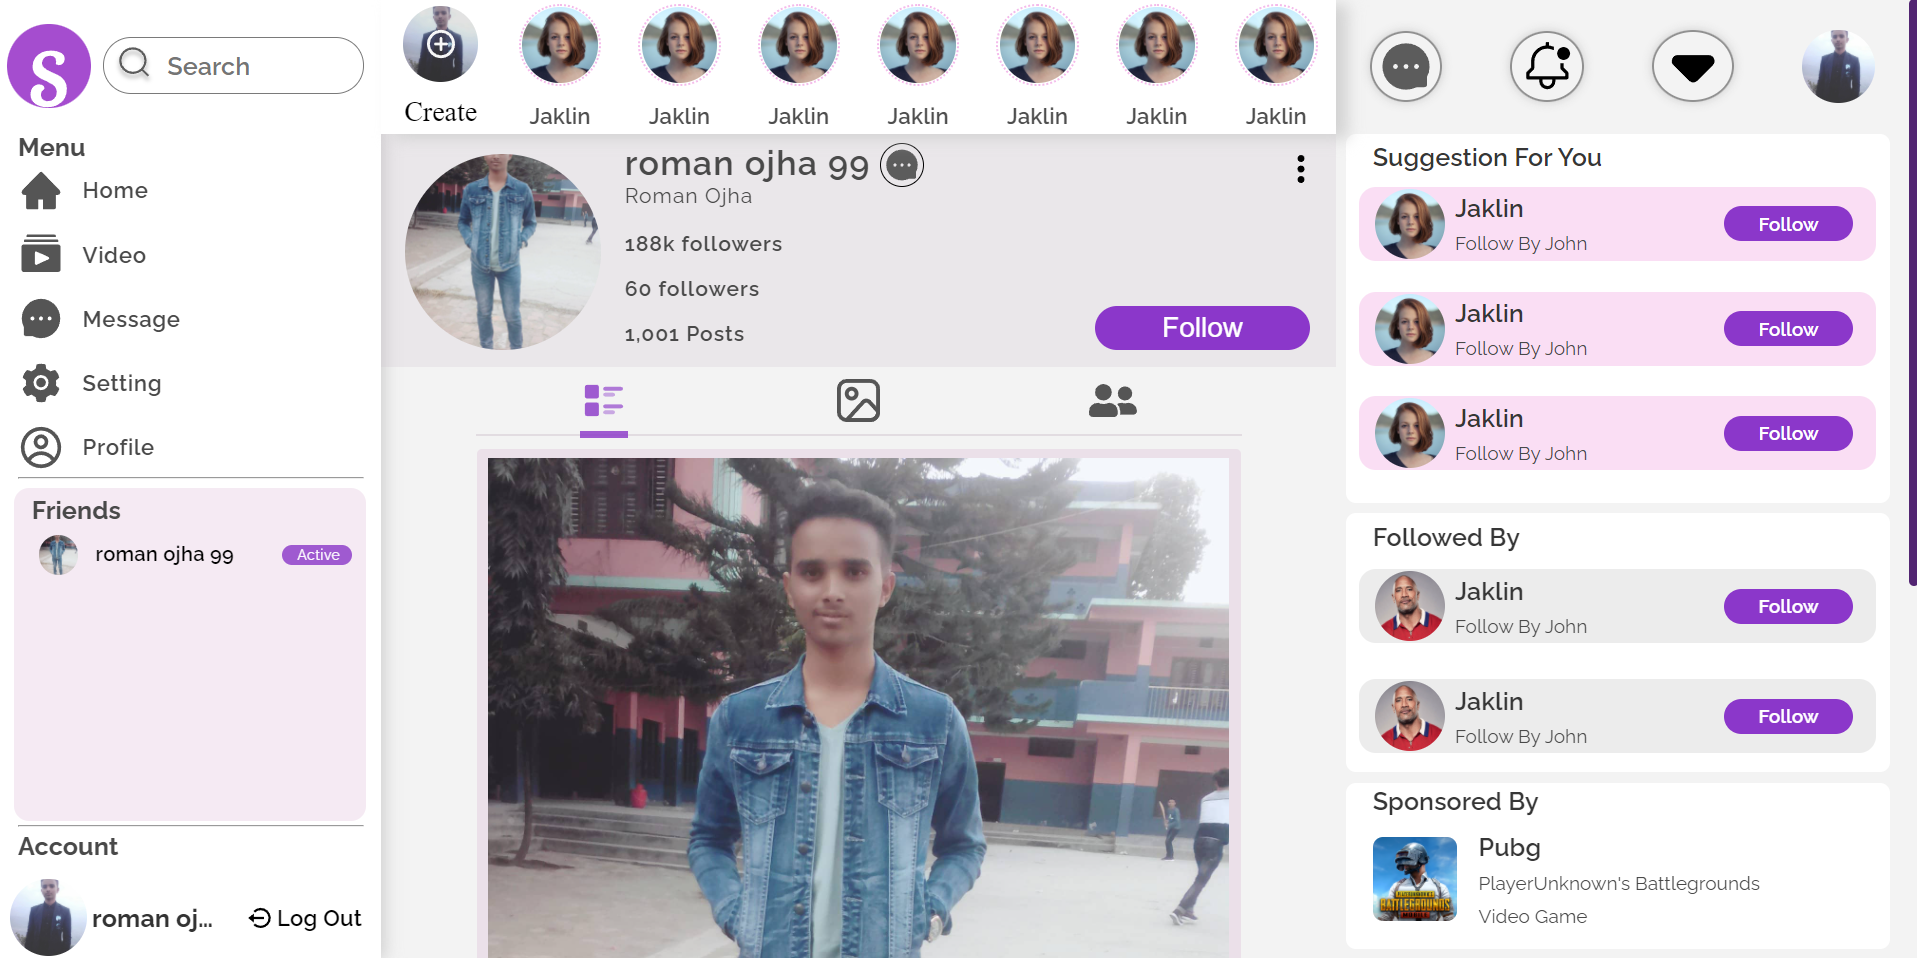
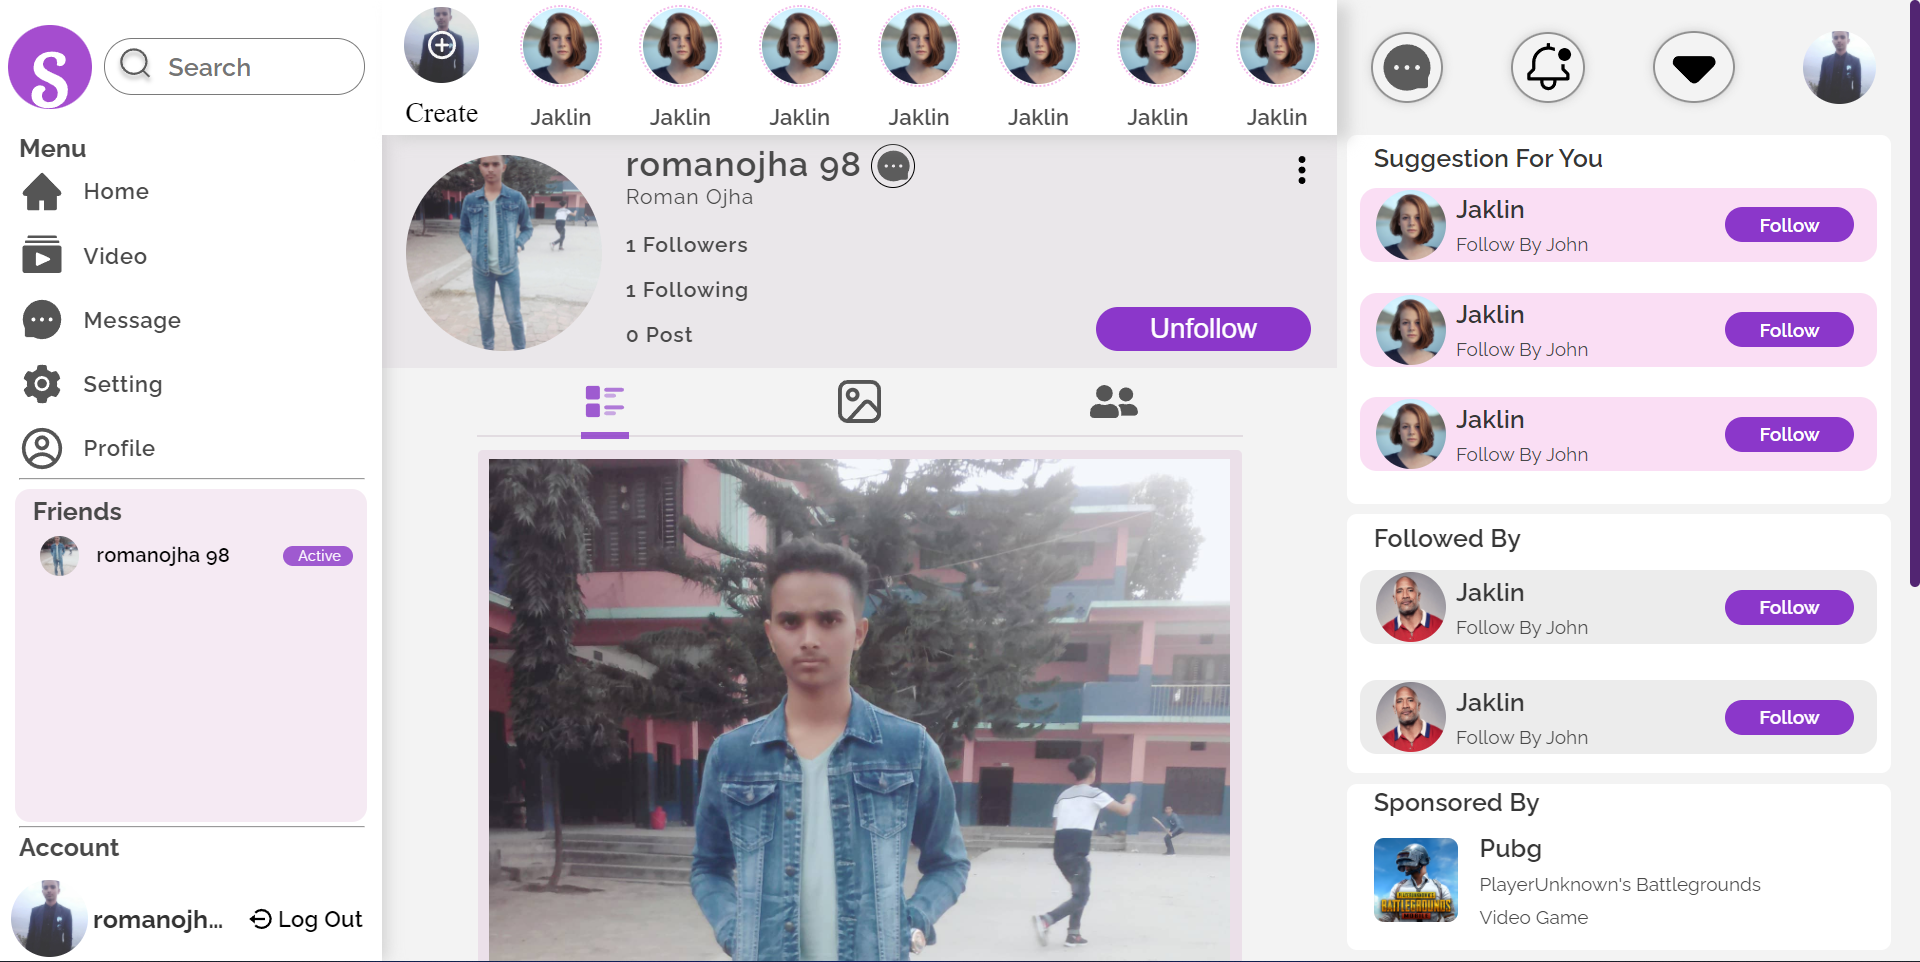
showing followers/following/post No. in profile page & updating profile page interface picture

diff --git a/client/src/react-components/ProfilePage.js b/client/src/react-components/ProfilePage.js
@@ -177,9 +177,9 @@ const SearchedProfilePage = () => {
                 </div>
               </div>
               <div className="ProfilePage_UserInfo_User_follow_Detail_Container">
-                <p>188k followers</p>
-                <p>60 followers</p>
-                <p>1,001 Posts</p>
+                <p>{profilePageData.followersNo} Followers</p>
+                <p>{profilePageData.followingNo} Following</p>
+                <p>{profilePageData.postNo} Post</p>
               </div>
             </div>
             <div className="ProfilePage_UserInfo_Follow_and_More_Button_Container">
